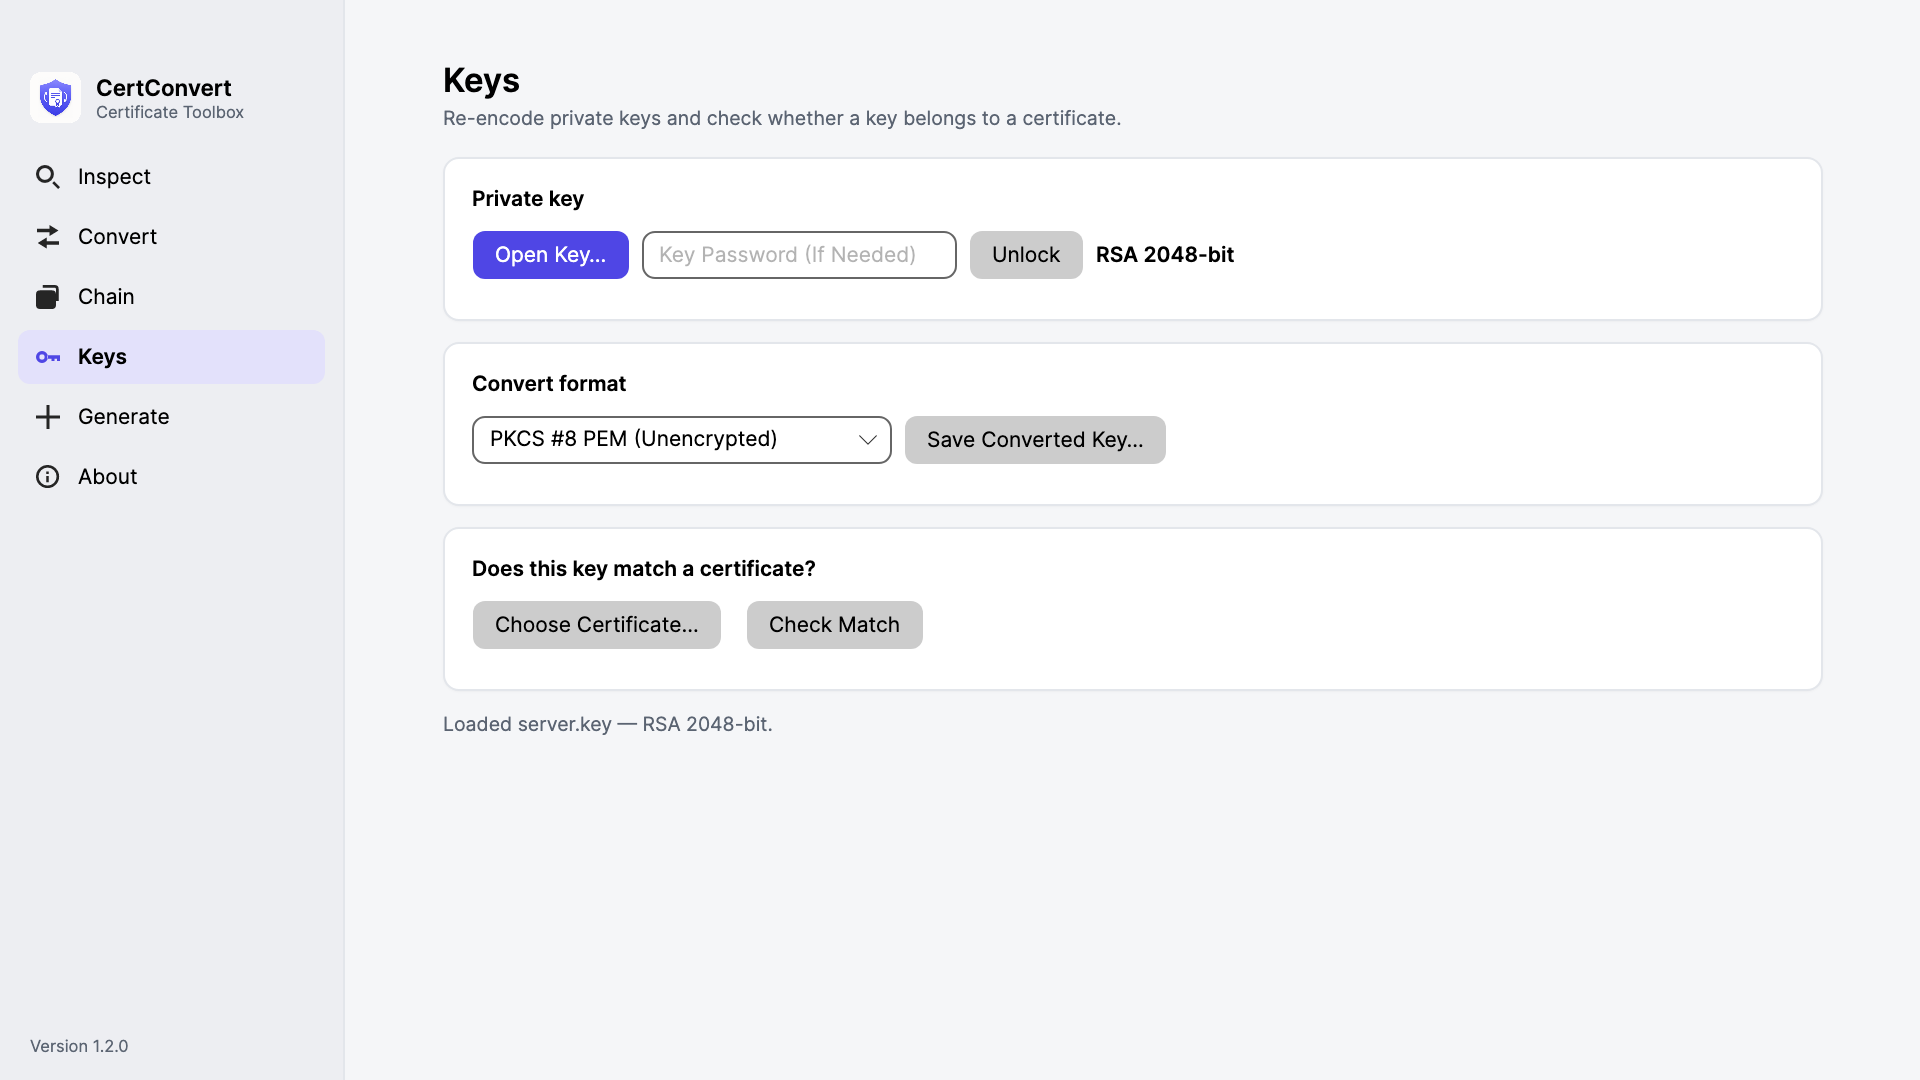
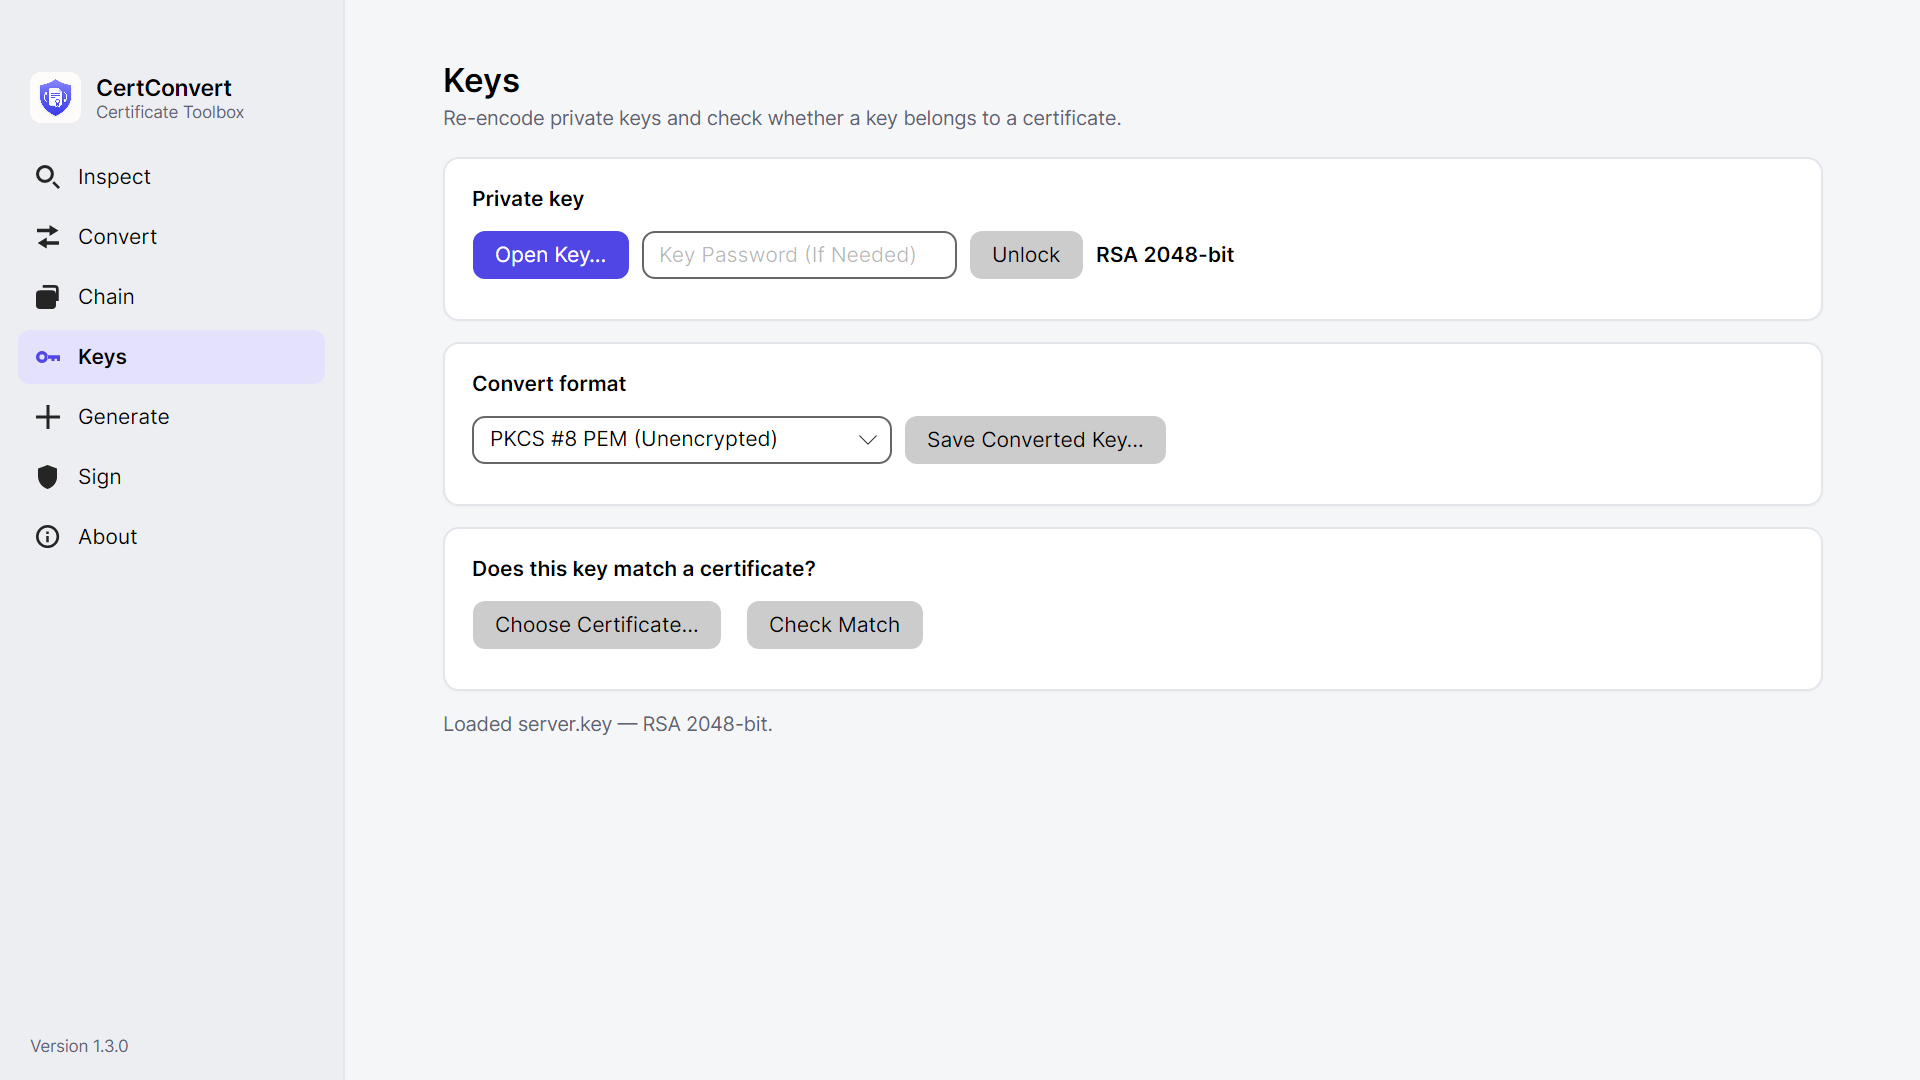
Regenerate Microsoft Store screenshots at 1.3 (adds Sign)
Eight Windows-rendered store-variant shots (01-inspect … 08-sign) captured on the build VM alongside the 1.3.0 MSIX; listing marked ready.

diff --git a/design/microsoft-store-listing.md b/design/microsoft-store-listing.md
@@ -90,15 +90,14 @@ Result should be rated for all ages (PEGI 3 / ESRB E equivalents).
 
 **Additional licence terms:** leave as Standard Application Licence Terms.
 
-## Screenshots — regenerate on the VM (adds 08-sign for 1.3)
+## Screenshots — READY (1.3, incl. 08-sign)
 
 Eight 1920×1080 PNGs in `design/msstore-screenshots/` (Windows-rendered, store
 variant; 1280×720 logical at 1.5× render scaling so the UI is sized like a real
 150%-scaled 1080p laptop, not sparse 1x): 01-inspect … 05-generate, 06-chain-validated, 07-keys-loaded, 08-sign. Upload in
-that order — Inspect first, it's the strongest opener. **01–07 carry over from
-1.2; the new 08-sign is produced when the set is regenerated on the Windows VM
-alongside the 1.3.0 MSIX** (these must be Windows-rendered, so they are not
-generated on the Mac). Regenerate with the VM capture flow (`CERTCONVERT_CAPTURE_SIZE=1280x720 CERTCONVERT_CAPTURE_SCALE=1.5`; note the capture dir is
+that order — Inspect first, it's the strongest opener. **All eight are the 1.3
+set, regenerated on the Windows build VM alongside the 1.3.0 MSIX** (they must be
+Windows-rendered, so they are not generated on the Mac). Regenerate with the VM capture flow (`CERTCONVERT_CAPTURE_SIZE=1280x720 CERTCONVERT_CAPTURE_SCALE=1.5`; note the capture dir is
 resolved against the TEST RUNNER's working directory, so pass an absolute path
 or fetch from `tests/.../bin/Debug/net10.0/design/msstore-screenshots`).
 
